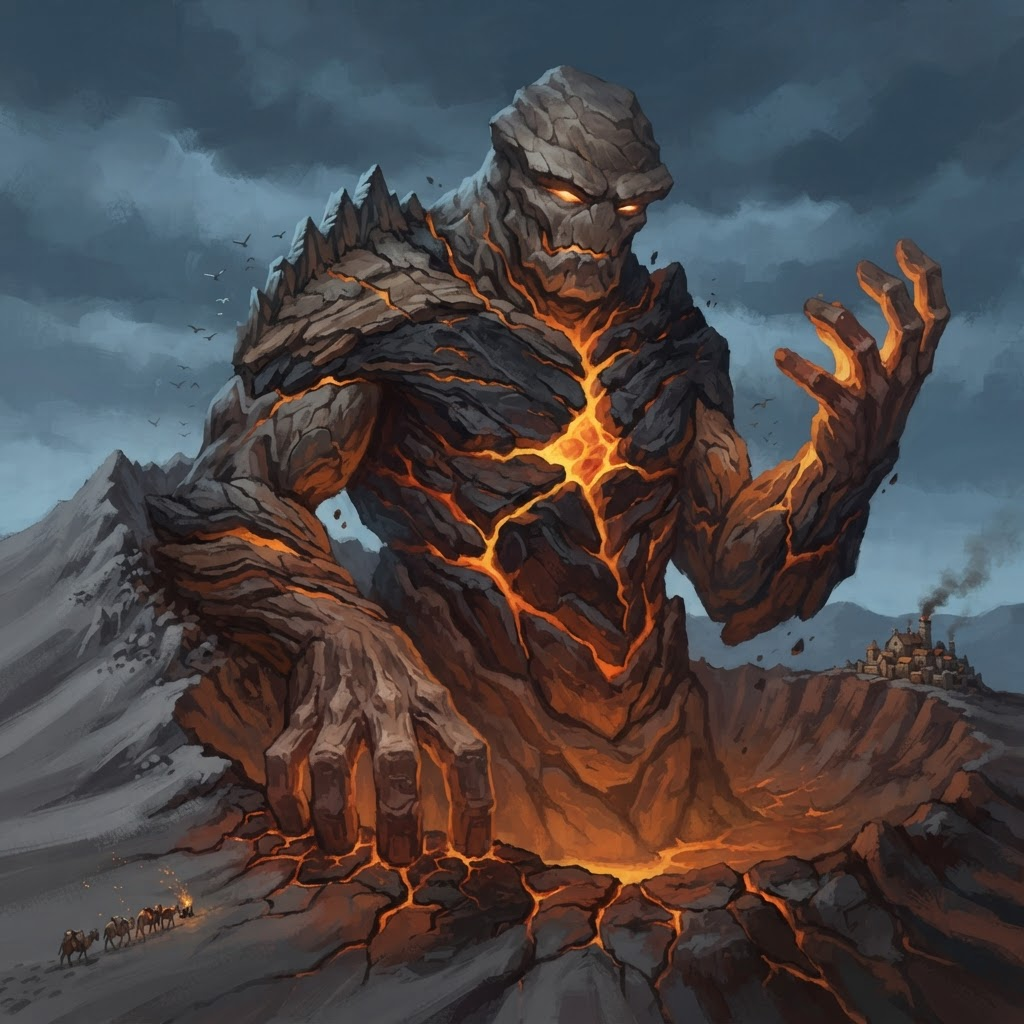
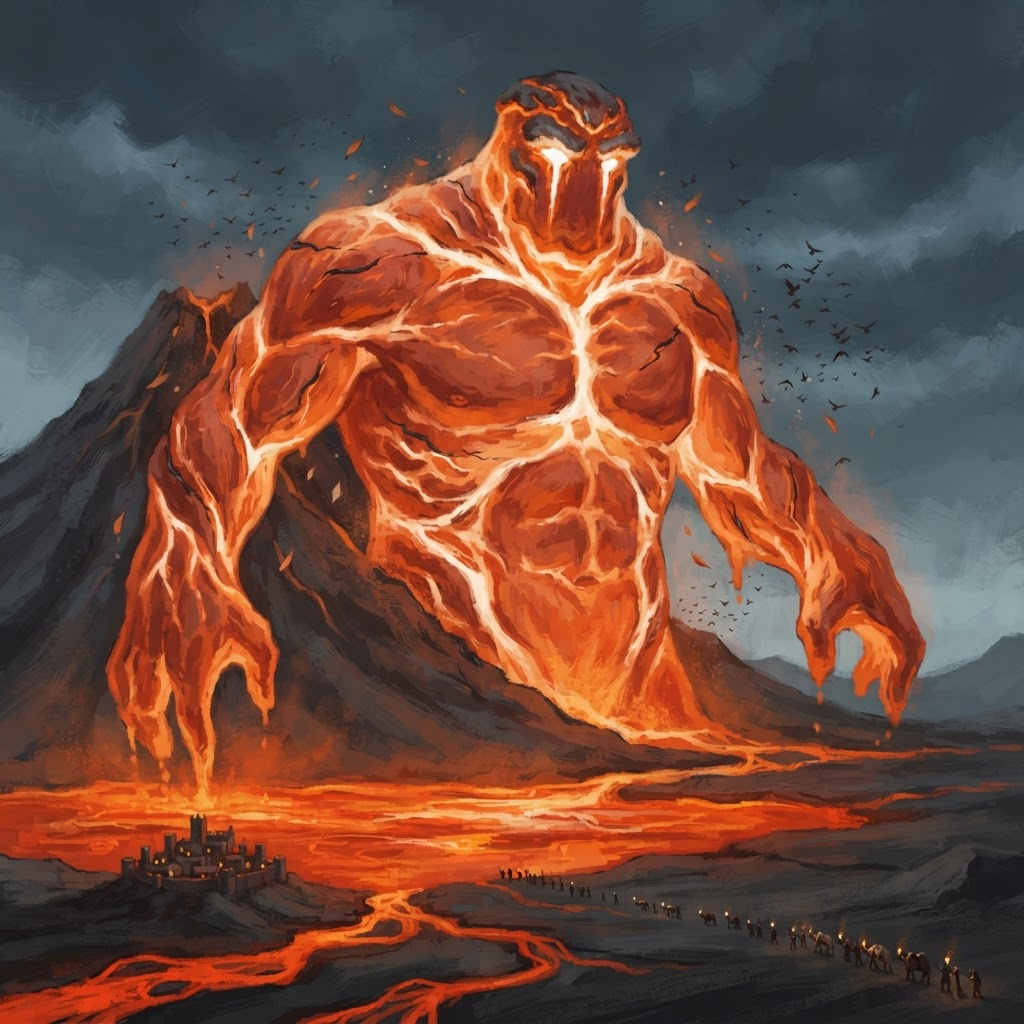
ELEMENT-PURITY + GODDESS FEMININE-STRUCTURE laws — Ember King V5 (pure magma) sent, Queen V2 benched

diff --git a/docs/ART_DIRECTION.md b/docs/ART_DIRECTION.md
@@ -17,7 +17,7 @@ Hand-painted painterly dark-fantasy, NOT photoreal film still, NOT cartoon. Five
 Weapons and armor NEVER imitate the relic. The Luminary (Cold Lantern) is the ONE artifact in a pilgrim's frame — craft is craft, relic is relic. No lantern-shaped weapon heads, no cage-frame ornaments, no hollow light-waiting hoops, no relic-like trinkets anywhere on gear. Armor = honest corded metalwork, wool, leather; weapons read unmistakably as weapons. Canonized after the armor-grammar V1 proof's light-waiting hoop read as a second artifact (hoop concept RETIRED; Keeper flail re-rolled with a solid chiseled striking head, cage head retired).
 
 ## 2. THE GIANTS — PRIMORDIAL-MAX ANATOMY
-Deities render as colossal RAW ELEMENTAL GIANTS (100 ft): zero armor, pure living element. 'Never made — the element that decided to stand': half-conceived asymmetric anatomy (mountain-range mid-formation, zero human symmetry), eon-layered crust strata flaking to reveal the molten/elemental core, violent elemental arteries, constant element-shed, face half-emerged from the element, movement like geology. Awe-not-fear; worship declares divinity. PRIMORDIAL LAW (Big, Sept 7 ~10:14 PM: 'Do they need weapons? Also lets make them more primordial'): gods carry NO weapons, NO tools, NO made objects of any kind — craft is mortal, the god never made a thing; the element IS the weapon. SUPersedes the Gender-Role weapon binding (greatsword/staff retired). Gods render MORE PRIMORDIAL: barely-conceived forms, more mountain than man, mass fused with the ridge, crude half-fused stone club-hands, face barely surfaced, legs dissolving back into terrain, zero human symmetry. EXTENDED PRIMORDIAL LAW (Big, Sept 7 ~10:18 PM: 'make the faces less human and primordial aswell also they shouldnt have legs only torso and up from the ground as that is how the cinematic fights will be'): (1) GOD FACES are BARELY FACES — more crag than countenance: overhanging crag brow, ember-seam eye sockets, no clear nose, NO MOUTH, no expression, zero human facial proportions. NO-MOUTH LAW (Big, Sept 7 ~10:34 PM: 'I also like no mouth on them'): gods have NO mouth — ever. (3) HANDS LAW (Big, same msg: 'they need need hands tho but they should elemental like and primordial hands'): gods DO have hands — but PRIMORDIAL ELEMENTAL hands, never human: hand masses of raw strata and living element, fingers half-fused and incomplete, fewer than five, thick as fallen menhirs, molten seams in the knuckle cracks — geology that suggests a hand, not anatomy. Replaces the earlier crude club-stump arm-ends. (2) NO LEGS — gods render TORSO-AND-UP ONLY, rising straight out of the ground; the lower body IS the terrain (folded strata, scree, cliff-face). The god does not walk — this is the CINEMATIC BATTLE FORM: god fights are staged as terrain-up torsos, never full standing bodies.
+Deities render as colossal RAW ELEMENTAL GIANTS (100 ft): zero armor, pure living element. 'Never made — the element that decided to stand': half-conceived asymmetric anatomy (mountain-range mid-formation, zero human symmetry), eon-layered crust strata flaking to reveal the molten/elemental core, violent elemental arteries, constant element-shed, face half-emerged from the element, movement like geology. Awe-not-fear; worship declares divinity. PRIMORDIAL LAW (Big, Sept 7 ~10:14 PM: 'Do they need weapons? Also lets make them more primordial'): gods carry NO weapons, NO tools, NO made objects of any kind — craft is mortal, the god never made a thing; the element IS the weapon. SUPersedes the Gender-Role weapon binding (greatsword/staff retired). Gods render MORE PRIMORDIAL: barely-conceived forms, more mountain than man, mass fused with the ridge, crude half-fused stone club-hands, face barely surfaced, legs dissolving back into terrain, zero human symmetry. EXTENDED PRIMORDIAL LAW (Big, Sept 7 ~10:18 PM: 'make the faces less human and primordial aswell also they shouldnt have legs only torso and up from the ground as that is how the cinematic fights will be'): (1) GOD FACES are BARELY FACES — more crag than countenance: overhanging crag brow, ember-seam eye sockets, no clear nose, NO MOUTH, no expression, zero human facial proportions. NO-MOUTH LAW (Big, Sept 7 ~10:34 PM: 'I also like no mouth on them'): gods have NO mouth — ever. (3) HANDS LAW (Big, same msg: 'they need need hands tho but they should elemental like and primordial hands'): gods DO have hands — but PRIMORDIAL ELEMENTAL hands, never human: hand masses of raw strata and living element, fingers half-fused and incomplete, fewer than five, thick as fallen menhirs, molten seams in the knuckle cracks — geology that suggests a hand, not anatomy. Replaces the earlier crude club-stump arm-ends. (2) NO LEGS — gods render TORSO-AND-UP ONLY, rising straight out of the ground; the lower body IS the terrain (folded strata, scree, cliff-face). The god does not walk — this is the CINEMATIC BATTLE FORM: god fights are staged as terrain-up torsos, never full standing bodies. ELEMENT-PURITY LAW (Big, Sept 7 ~10:34 PM: 'I want them to be more pure form of their element so they are clearly distinct from other elements'): every god renders as the PURE FORM of their element — fire = pure molten lava/magma, storm = pure storm, tide = pure sea, etc. — unmistakably distinct from every other element at a glance; stone bodies are retired (a god of fire is not a rock giant with a glowing chest, he IS the fire). GODDESS FEMININE-STRUCTURE LAW (same ruling: 'the females all need a feminine structure with chest and hair'): goddesses keep the primordial law but their elemental mass reads FEMININE — distinct chest structure and elemental HAIR (flame-hair for fire, storm-hair, tide-hair, bloom-hair) — never humanized, the element shaped feminine. Governs all 6 goddess re-rolls.
 
 **Composition law — HALF-ZOOM MID-SHOT:** camera at the giant's chest height, moderate distance, giant fills the central two-thirds full-figure, scenic faction landscape breathing around him, scale anchors mandatory (cities at ankle line, pilgrim processions as sparks against the shins).
 

diff --git a/docs/ROSTER-PASS-STATUS.md b/docs/ROSTER-PASS-STATUS.md
@@ -102,3 +102,5 @@ Full pass order: 12 god-emergence re-rolls (6 realms x King+Queen) → Luminary 
 - GOD 2/12 — EMBER QUEEN V1 SENT Sept 7 ~10:28 PM ET — same full Primordial Law kit (weaponless, staff binding retired, barely-face, torso-up out of the terrain, molten core), silhouette differentiated from the King: broader molten core, heavier curved ridge-line shoulders, never a humanized female figure. Half-zoom mid-shot, 3 scale anchors, two-layer light. p-hash vs King: distance 20 (distinct). Awaiting verdict; on Keep, the storm pair (Galemarch) rolls next.
 - EMBER KING V4 SENT Sept 7 ~10:33 PM ET — fresh redo take per Big: caldera-crater emergence (rises out of the dormant caldera itself, lower mass breaking into crater rim), LARGER open furnace core spilling light down the strata, head set low and heavy between ridge shoulders, camera slightly below chest line looking up. Same primordial kit: weaponless, barely-face, torso-up, asymmetric, two-layer light, anchors (rim town, ash-plain caravan, shoulder birds). Awaiting verdict. Queen V1 verdict on hold until the King locks.
 - EMBER KING V5 SENT Sept 7 ~10:36 PM ET (Big: 'I also like no mouth on them they need need hands tho but they should elemental like and primordial hands') — TWO NEW GOD LAWS canonized in ART_DIRECTION (commit 2cfbb9b25): NO-MOUTH LAW (gods have no mouth, ever) + HANDS LAW (gods DO have hands — primordial elemental: half-fused incomplete fingers fewer than five, menhir-thick, molten seams in knuckle cracks, geology not anatomy; replaces the club-stump arm-ends). V5: no mouth, right hand braced knuckle-down on the crater rim, left raised with half-formed fingers, caldera emergence. Supersedes V4. Awaiting verdict.
+
+- EMBER KING V5 SENT Sept 7 ~10:40 PM ET (Big: 'I want them to be more pure form of their element... for fire make them pure lava and molten magma and the females all need a feminine structure with chest and hair') — TWO NEW LAWS canonized in ART_DIRECTION: ELEMENT-PURITY (pure element form per realm, distinct at a glance, stone bodies retired) + GODDESS FEMININE-STRUCTURE (chest + elemental hair, never humanized). V5 King: molten-magma body, crust veined open with white-hot glow, torso-up out of the lava lake, weaponless, barely-face, anchors held; p-hash vs V4 = 26 (distinct). Awaiting verdict. QUEEN V2-FEMININE already rolled to the new laws (flame-hair, feminine chest, pure magma) — BENCHED until the King's verdict per one-at-a-time.
